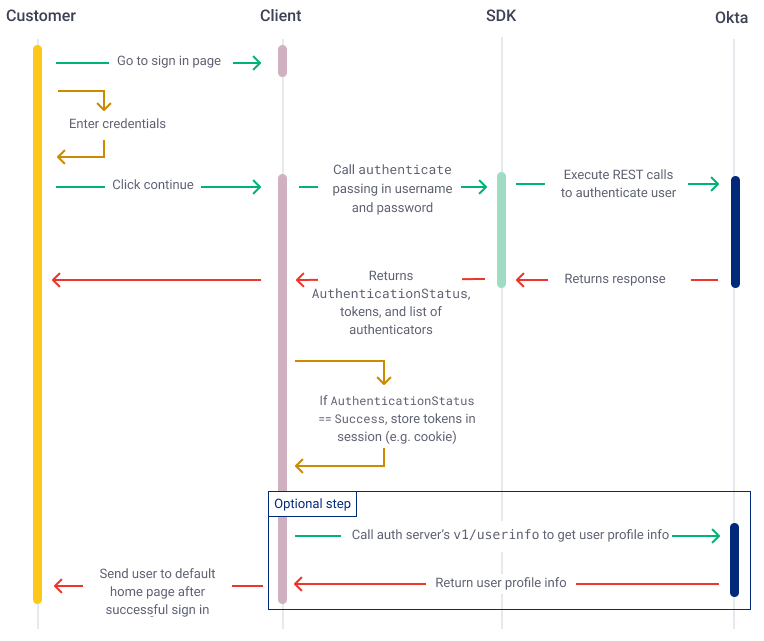
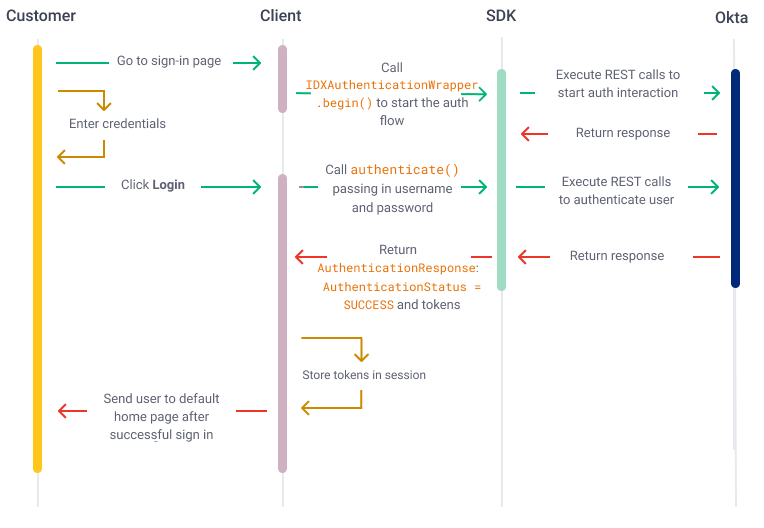
fix Java SDK basic sign-in use case

diff --git a/packages/@okta/vuepress-site/docs/guides/oie-embedded-sdk-use-cases/oie-embedded-sdk-use-case-basic-sign-in/java/integrationsteps.md b/packages/@okta/vuepress-site/docs/guides/oie-embedded-sdk-use-cases/oie-embedded-sdk-use-case-basic-sign-in/java/integrationsteps.md
@@ -1,65 +1,44 @@
 ## Integration steps
 
-### Step 1: Build a sign-in page on the client
+### Step 1: Build a sign-in form
 
-Build a sign-in page that captures both the username and password.
-
-For example:
+Build a sign-in form that captures both the username and password. For example:
 
 <div class="common-image-format">
 
-![Sign in screenshot](/img/oie-embedded-sdk/oie-embedded-sdk-use-case-simple-sign-on-screenshot-sign-in.png
- "Sign in screenshot")
+![Displays the simple sign-in form for Java SDK](/img/oie-embedded-sdk/oie-embedded-sdk-use-case-simple-sign-on-screenshot-sign-in-java.png)
 
 </div>
 
+Begin the authentication process by calling the Java SDK's [`IDXAuthenticationWrapper.begin()`](https://github.com/okta/okta-idx-java/blob/master/api/src/main/java/com/okta/idx/sdk/api/client/IDXAuthenticationWrapper.java#L603) method and getting a new [`ProceedContext`](https://github.com/okta/okta-idx-java/blob/master/api/src/main/java/com/okta/idx/sdk/api/client/ProceedContext.java) object.
+
+```java
+AuthenticationResponse beginResponse = idxAuthenticationWrapper.begin();
+ProceedContext proceedContext = beginResponse.getProceedContext();
+```
+
 ### Step 2: Authenticate user credentials
 
-When the user initiates the sign-in process, your app needs to create an [AuthenticationOptions](https://github.com/okta/okta-idx-java/blob/master/api/src/main/java/com/okta/idx/sdk/api/model/AuthenticationOptions.java) object and set its `username` and `password` properties to the values entered by the user. Send this object to the
-[IDXAuthenticationWrapper](https://github.com/okta/okta-idx-java/blob/master/api/src/main/java/com/okta/idx/sdk/api/client/IDXAuthenticationWrapper.java)'s `authenticate` method to authenticate the user.
+After the user submits their credentials, call `IDXAuthenticationWrapper.authenticate()` with the credential values.
 
 ```java
 AuthenticationResponse authenticationResponse =
                 idxAuthenticationWrapper.authenticate(new AuthenticationOptions(username, password), beginResponse.getProceedContext());
 ```
 
-### Step 3: Handle the response from the sign in
+### Step 3: Handle response from Okta and the SDK
 
-Depending on [AuthenticationResponse](https://github.com/okta/okta-idx-java/blob/master/api/src/main/java/com/okta/idx/sdk/api/response/AuthenticationResponse.java)'s [AuthenticationStatus](https://github.com/okta/okta-idx-java/blob/master/api/src/main/java/com/okta/idx/sdk/api/model/AuthenticationStatus.java) value, you need to handle the response accordingly:
+The `IDXAuthenticationWrapper.authenticate()` method returns an [`AuthenticationResponse`](https://github.com/okta/okta-idx-java/blob/master/api/src/main/java/com/okta/idx/sdk/api/response/AuthenticationResponse.java) object with [`AuthenticationStatus`](https://github.com/okta/okta-idx-java/blob/master/api/src/main/java/com/okta/idx/sdk/api/model/AuthenticationStatus.java). Handle the returned `AuthenticationStatus` value accordingly:
 
 #### Success status
 
-For a successful sign-in response (`AuthenticationStatus.Success`), use the [AuthenticationResponse](https://github.com/okta/okta-idx-java/blob/master/api/src/main/java/com/okta/idx/sdk/api/response/AuthenticationResponse.java)'s `getTokenResponse` method to retrieve the token and then process the authenticated user in the app.
+If the Java SDK returns an `AuthenticationResponse` object with `AuthenticationStatus=SUCCESS`, then the user is successfully signed in. Use the [`AuthenticationResponse.getTokenResponse()`](https://github.com/okta/okta-idx-java/blob/master/api/src/main/java/com/okta/idx/sdk/api/response/AuthenticationResponse.java#L43) method to retrieve the required tokens (access, refresh, ID) for authenticated user activity.
 
-For example:
-
-```java
-    ...
-  public ModelAndView handleTerminalTransitions(AuthenticationResponse response, HttpSession session) {
-        Util.updateSession(session, response.getProceedContext());
-        if (response.getTokenResponse() != null) {
-            return homeHelper.proceedToHome(response.getTokenResponse(), session);
-        }
-
-        if (response.getAuthenticators() == null && response.getErrors().size() > 0) {
-            ModelAndView modelAndView = new ModelAndView("error");
-            modelAndView.addObject("errors", response.getErrors());
-            return modelAndView;
-        }
-
-        if (response.getAuthenticationStatus() == SKIP_COMPLETE) {
-            ModelAndView modelAndView = homeHelper.proceedToHome(response.getTokenResponse(), session);
-            modelAndView.addObject("info", response.getErrors());
-            return modelAndView;
-        }
-        return null;
-    }
-    ...
-```
+> **Note:** You can obtain basic user information after the user is authenticated by making a request to Okta's Open ID Connect authorization server. See [Get user profile information after sign in](/docs/guides/oie-embedded-sdk-alternate-flows/java/main/#getuserprofileinfo) for details.
 
 #### Other status
 
-You need to handle other returned [AuthenticationStatus](https://github.com/okta/okta-idx-java/blob/master/api/src/main/java/com/okta/idx/sdk/api/model/AuthenticationStatus.java) cases if the user didn't sign in successfully.
+You need to handle other returned [`AuthenticationStatus`](https://github.com/okta/okta-idx-java/blob/master/api/src/main/java/com/okta/idx/sdk/api/model/AuthenticationStatus.java) cases if there are additional factors to verify.
 
 For example:
 
@@ -83,6 +62,14 @@ For example:
     ...
 ```
 
-### Step 4: Get user profile information-optional
+#### Failed authentication
 
-Optionally, you can obtain basic user information after the user is authenticated by making a request to Okta's Open ID Connect authorization server. See [Get user profile information after sign in](/docs/guides/oie-embedded-sdk-alternate-flows/java/main/#getuserprofileinfo).
+There is no explicit failed status from `AuthenticationStatus`. Check the response handler for an error in `AuthenticationResponse` for failed authentication, and handle the flow accordingly. For example:
+
+```java
+if (responseHandler.needsToShowErrors(authenticationResponse)) {
+    ModelAndView modelAndView = new ModelAndView("redirect:/login");
+    modelAndView.addObject("errors", authenticationResponse.getErrors());
+    return modelAndView;
+}
+```

diff --git a/packages/@okta/vuepress-site/docs/guides/oie-embedded-sdk-use-cases/oie-embedded-sdk-use-case-basic-sign-in/java/summaryofsteps.md b/packages/@okta/vuepress-site/docs/guides/oie-embedded-sdk-use-cases/oie-embedded-sdk-use-case-basic-sign-in/java/summaryofsteps.md
@@ -1,10 +1,9 @@
 ## Summary of steps
 
-This use case entails building out a simple UI to capture the username, password, and authenticating the credentials with Okta using the SDK.
+This use case explains how to build a simple UI to capture the username and password, and authenticate the credentials with Okta using the SDK.
 
 <div class="common-image-format">
 
-![Basic sign in sequence diagram for Java SDK](/img/oie-embedded-sdk/oie-embedded-sdk-use-case-simple-sign-on-seq-java.png
- "Basic sign in sequence diagram for Java SDK")
+![Displays the basic sign-in flow sequence diagram for Java SDK](/img/oie-embedded-sdk/oie-embedded-sdk-use-case-simple-sign-on-seq-java.png)
 
 </div>
